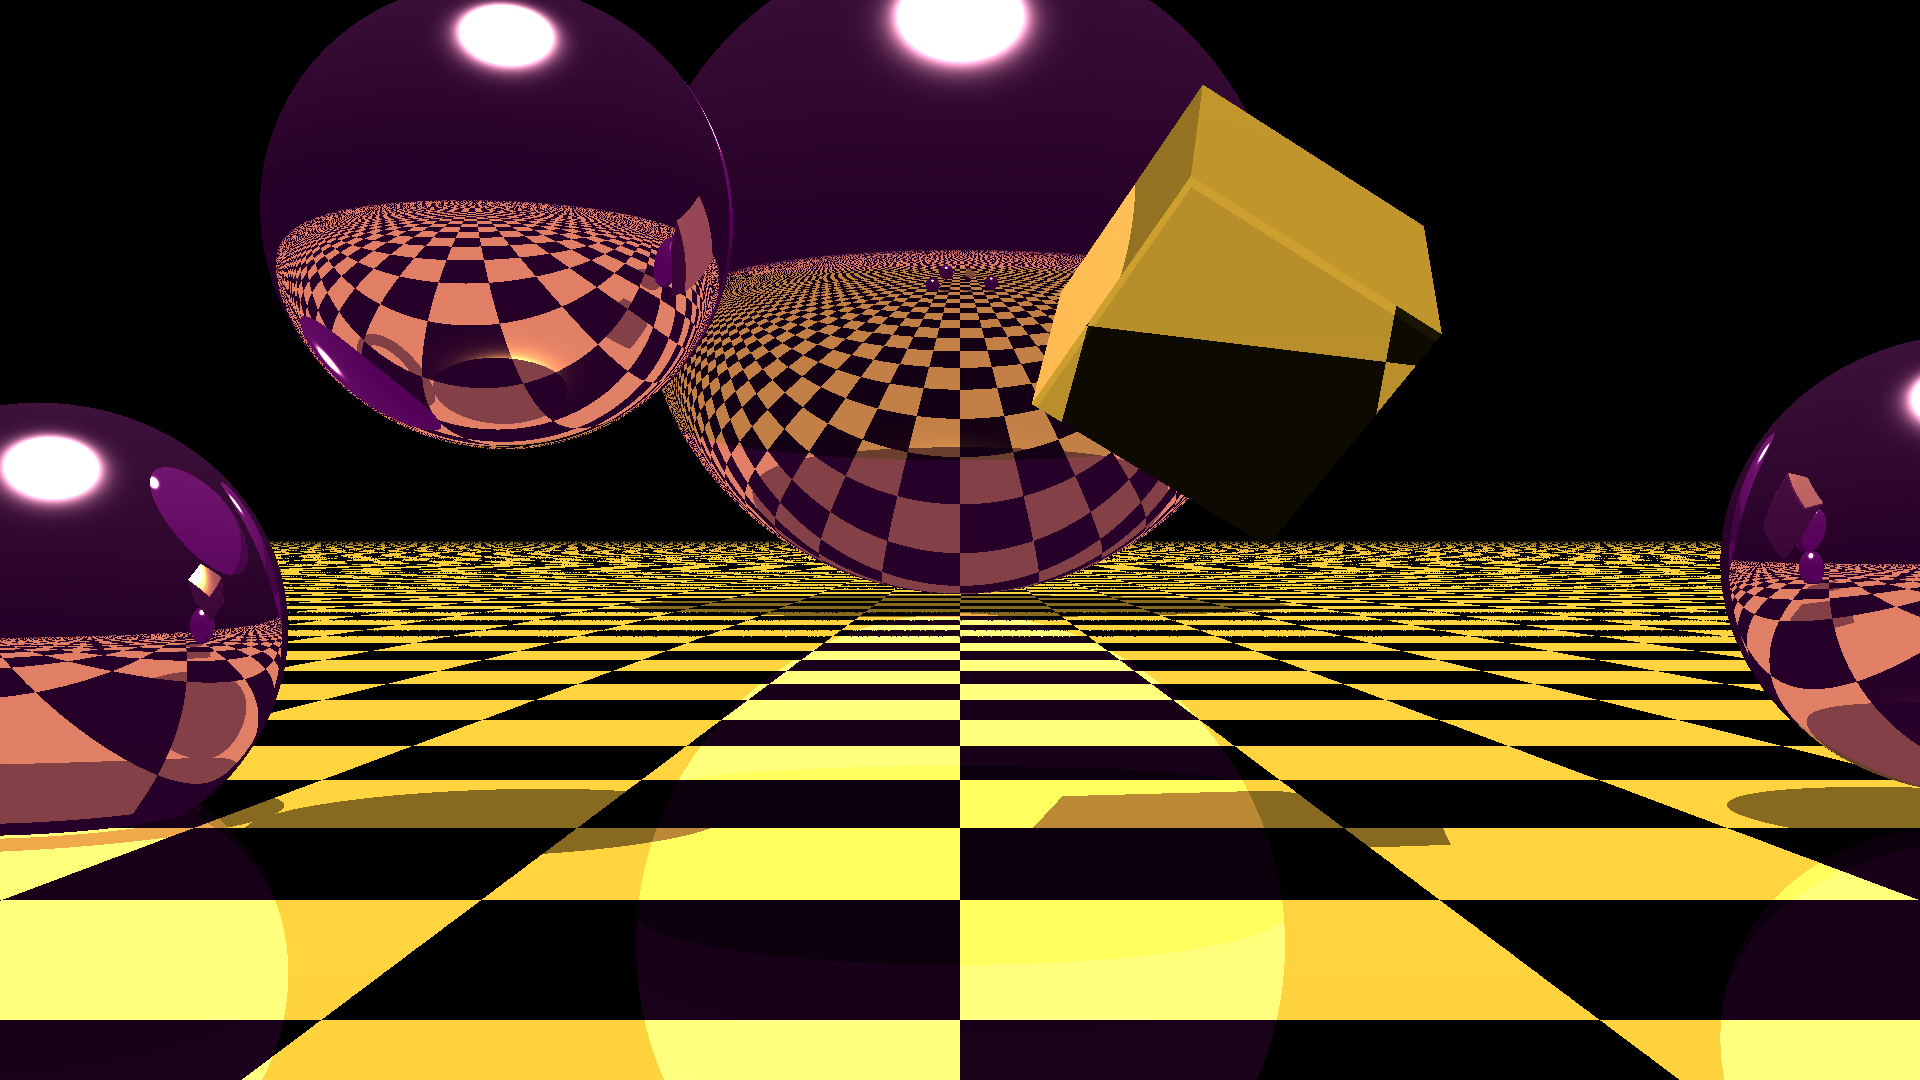
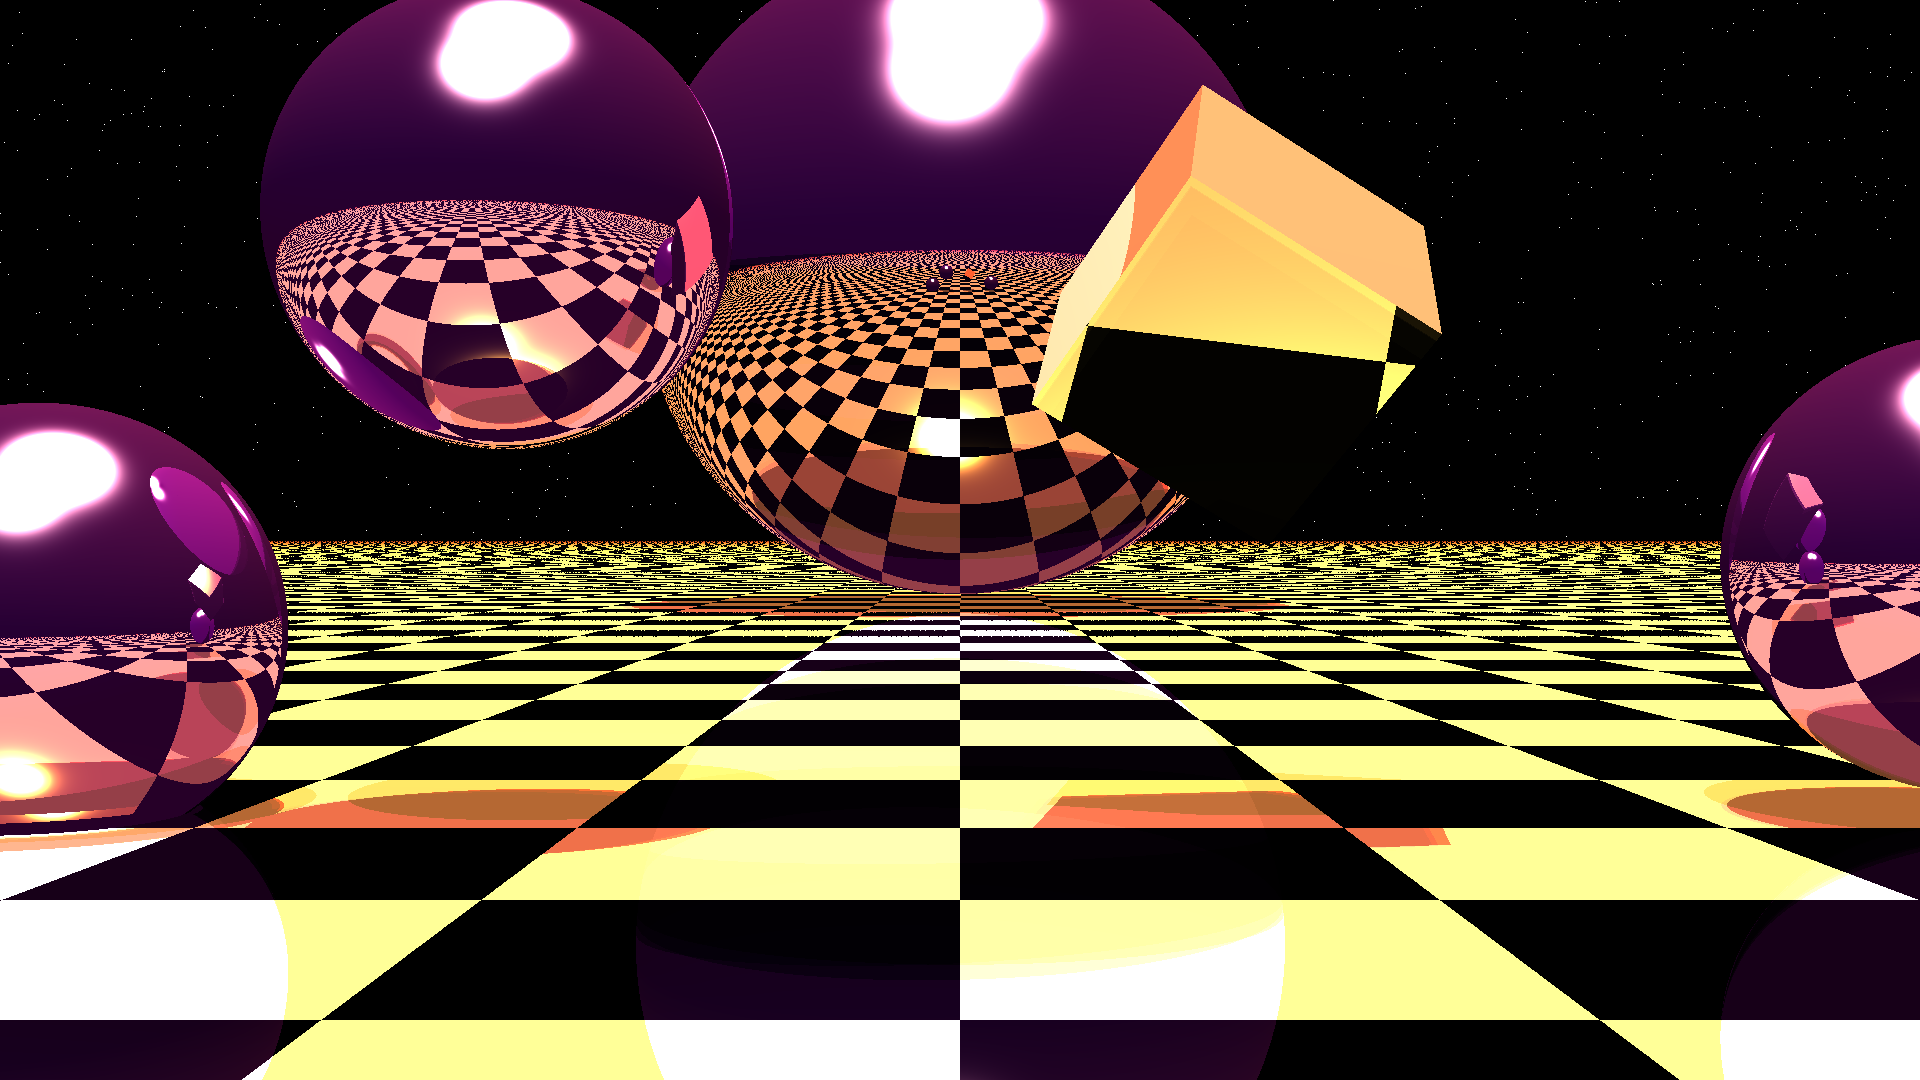
Ready for demo

diff --git a/src/main/Main.java b/src/main/Main.java
@@ -1,13 +1,7 @@
 package main;
 
-import main.object.Object;
-import main.object.TaperedCylinder;
 import main.sdl.SDL;
 import main.sdl.Settings;
-import main.transformation.Rotation;
-import main.transformation.Scale;
-import main.transformation.Transformation;
-import main.transformation.Translation;
 
 import java.io.IOException;
 import java.util.ArrayList;
@@ -41,9 +35,9 @@ public class Main {
         Scene scene = new Scene(); // light color
         // refraction scene.addLightsource(lightsourceWhite, new double[]{155, 155, 155}, 0.000002);
         scene.addLightsource(lightsourceWhite, new double[]{155, 155, 155}, 0.1);
-        /*scene.addLightsource(lightsourceBlue, new double[]{0, 0, 255}, 0.1);
+        scene.addLightsource(lightsourceBlue, new double[]{0, 0, 255}, 0.1);
         scene.addLightsource(lightsourceRed, new double[]{180, 0, 0}, 0.1);
-        scene.addLightsource(lightsourceOrange, new double[]{200, 50, 0}, 0.1);*/
+        scene.addLightsource(lightsourceOrange, new double[]{200, 50, 0}, 0.1);
         //scene.addLightsource(lightsourcePink, new double[]{255, 30, 122}, 0.1);
 
         // camera in center of screen
@@ -61,12 +55,6 @@ public class Main {
             System.out.println("Problem reading sdl: " + e.getMessage());
         }
 
-        // MATERIALS
-        /*Material ruby = new Material(new double[]{0.1745, 0.01175, 0.01175}, new double[]{0.61424, 0.04136, 0.04136}, new double[]{0.727811, 0.626959, 0.626959}, new double[]{1.762, 1.770, 1.778}, 0.2, new double[]{0.6, 0.3, 0.1}, 0.6);
-        Material copper = new Material(new double[]{0.19125, 0.0735, 0.0225}, new double[]{0.7038, 0.27048, 0.0828}, new double[]{0.256777, 0.137622, 0.086014}, new double[]{fresnelToRefr(0.755), fresnelToRefr(0.49), fresnelToRefr(0.095)}, 0.2, new double[]{0.6, 0.3, 0.1}, 0.1);
-        Material chrome = new Material(new double[]{0.25, 0.25, 0.25}, new double[]{0.4, 0.4, 0.4}, new double[]{3.1812, 3.1812, 3.1812}, new double[]{3.1812, 3.1812, 3.1812}, 0.2, new double[]{0.6, 0.3, 0.1}, 0.6);
-        Material gold = new Material(new double[]{0.54725, 0.4995, 0.3745}, new double[]{0.95164, 0.80648, 0.52648}, new double[]{0.928281, 0.855802, 0.666065}, new double[]{fresnelToRefr(0.989), fresnelToRefr(0.876), fresnelToRefr(0.399)}, 0.2, new double[]{0.5, 0.3, 0.1}, 0.4);
-*/
         Renderer renderer = new Renderer(FOCALLENGTH, SCREEN_WIDTH, SCREEN_HEIGHT, CMAX, RMAX, settings);
         renderer.setScene(scene);
 
@@ -94,11 +82,5 @@ public class Main {
         });
 
         show.start();
-    }
-
-
-    public static double fresnelToRefr(double fresnel) {
-        double sqrt = Math.sqrt(fresnel);
-        return (1 + sqrt) / (1 - sqrt);
     }
 }

diff --git a/src/main/Renderer.java b/src/main/Renderer.java
@@ -12,10 +12,8 @@ import java.awt.image.BufferStrategy;
 import java.awt.image.BufferedImage;
 import java.io.File;
 import java.io.IOException;
-import java.util.Arrays;
-import java.util.Collections;
+import java.util.*;
 import java.util.List;
-import java.util.Map;
 import java.util.concurrent.ExecutorService;
 import java.util.concurrent.Executors;
 import java.util.concurrent.ThreadLocalRandom;
@@ -98,12 +96,6 @@ public class Renderer {
         final double w = screenWidth / 2;
 
         float starttime = System.nanoTime();
-        this.skybox = new BufferedImage((int) screenWidth, (int) screenHeight, BufferedImage.TYPE_INT_RGB);
-        try {
-            this.skybox = ImageIO.read(new File("skybox.png"));
-        } catch (IOException e) {
-            e.printStackTrace();
-        }
 
         ExecutorService es = Executors.newFixedThreadPool(threads);
 
@@ -212,8 +204,6 @@ public class Renderer {
                     }
 
                     Vector dir = new Vector(-focallength, -(w - screenWidth * (x / cmax)), -(h - screenHeight * (y / rmax)), 0);
-                    //Vector dir = new Vector(-focallength, w * (y * c - 1), h * (z * r - 1), 0);
-                    //Vector dir = new Vector(-focallength, (w - screenWidth) * (y * c / cmax), (h - screenHeight) * (z * r / rmax), 0);
 
                     // create normalized ray
                     Vector normalizedDir = new Vector(Utility.normalize(dir.getCoords()));
@@ -239,7 +229,13 @@ public class Renderer {
                             rgbValues[i] = getShading(normalizedRay, closestObject, intersectionHit, rgb, recurseLevel, air);
                         }
                     } else {
-                        rgbValues[i] = new double[]{0, 0, 0};
+                        if (r < w) {
+                            if (new Random().nextDouble(100) < 0.1) {
+                                rgbValues[i] = new double[]{145, 211, 255};
+                            }
+                        } else {
+                            rgbValues[i] = new double[]{0, 0, 0};
+                        }
                     }
                 }
 
